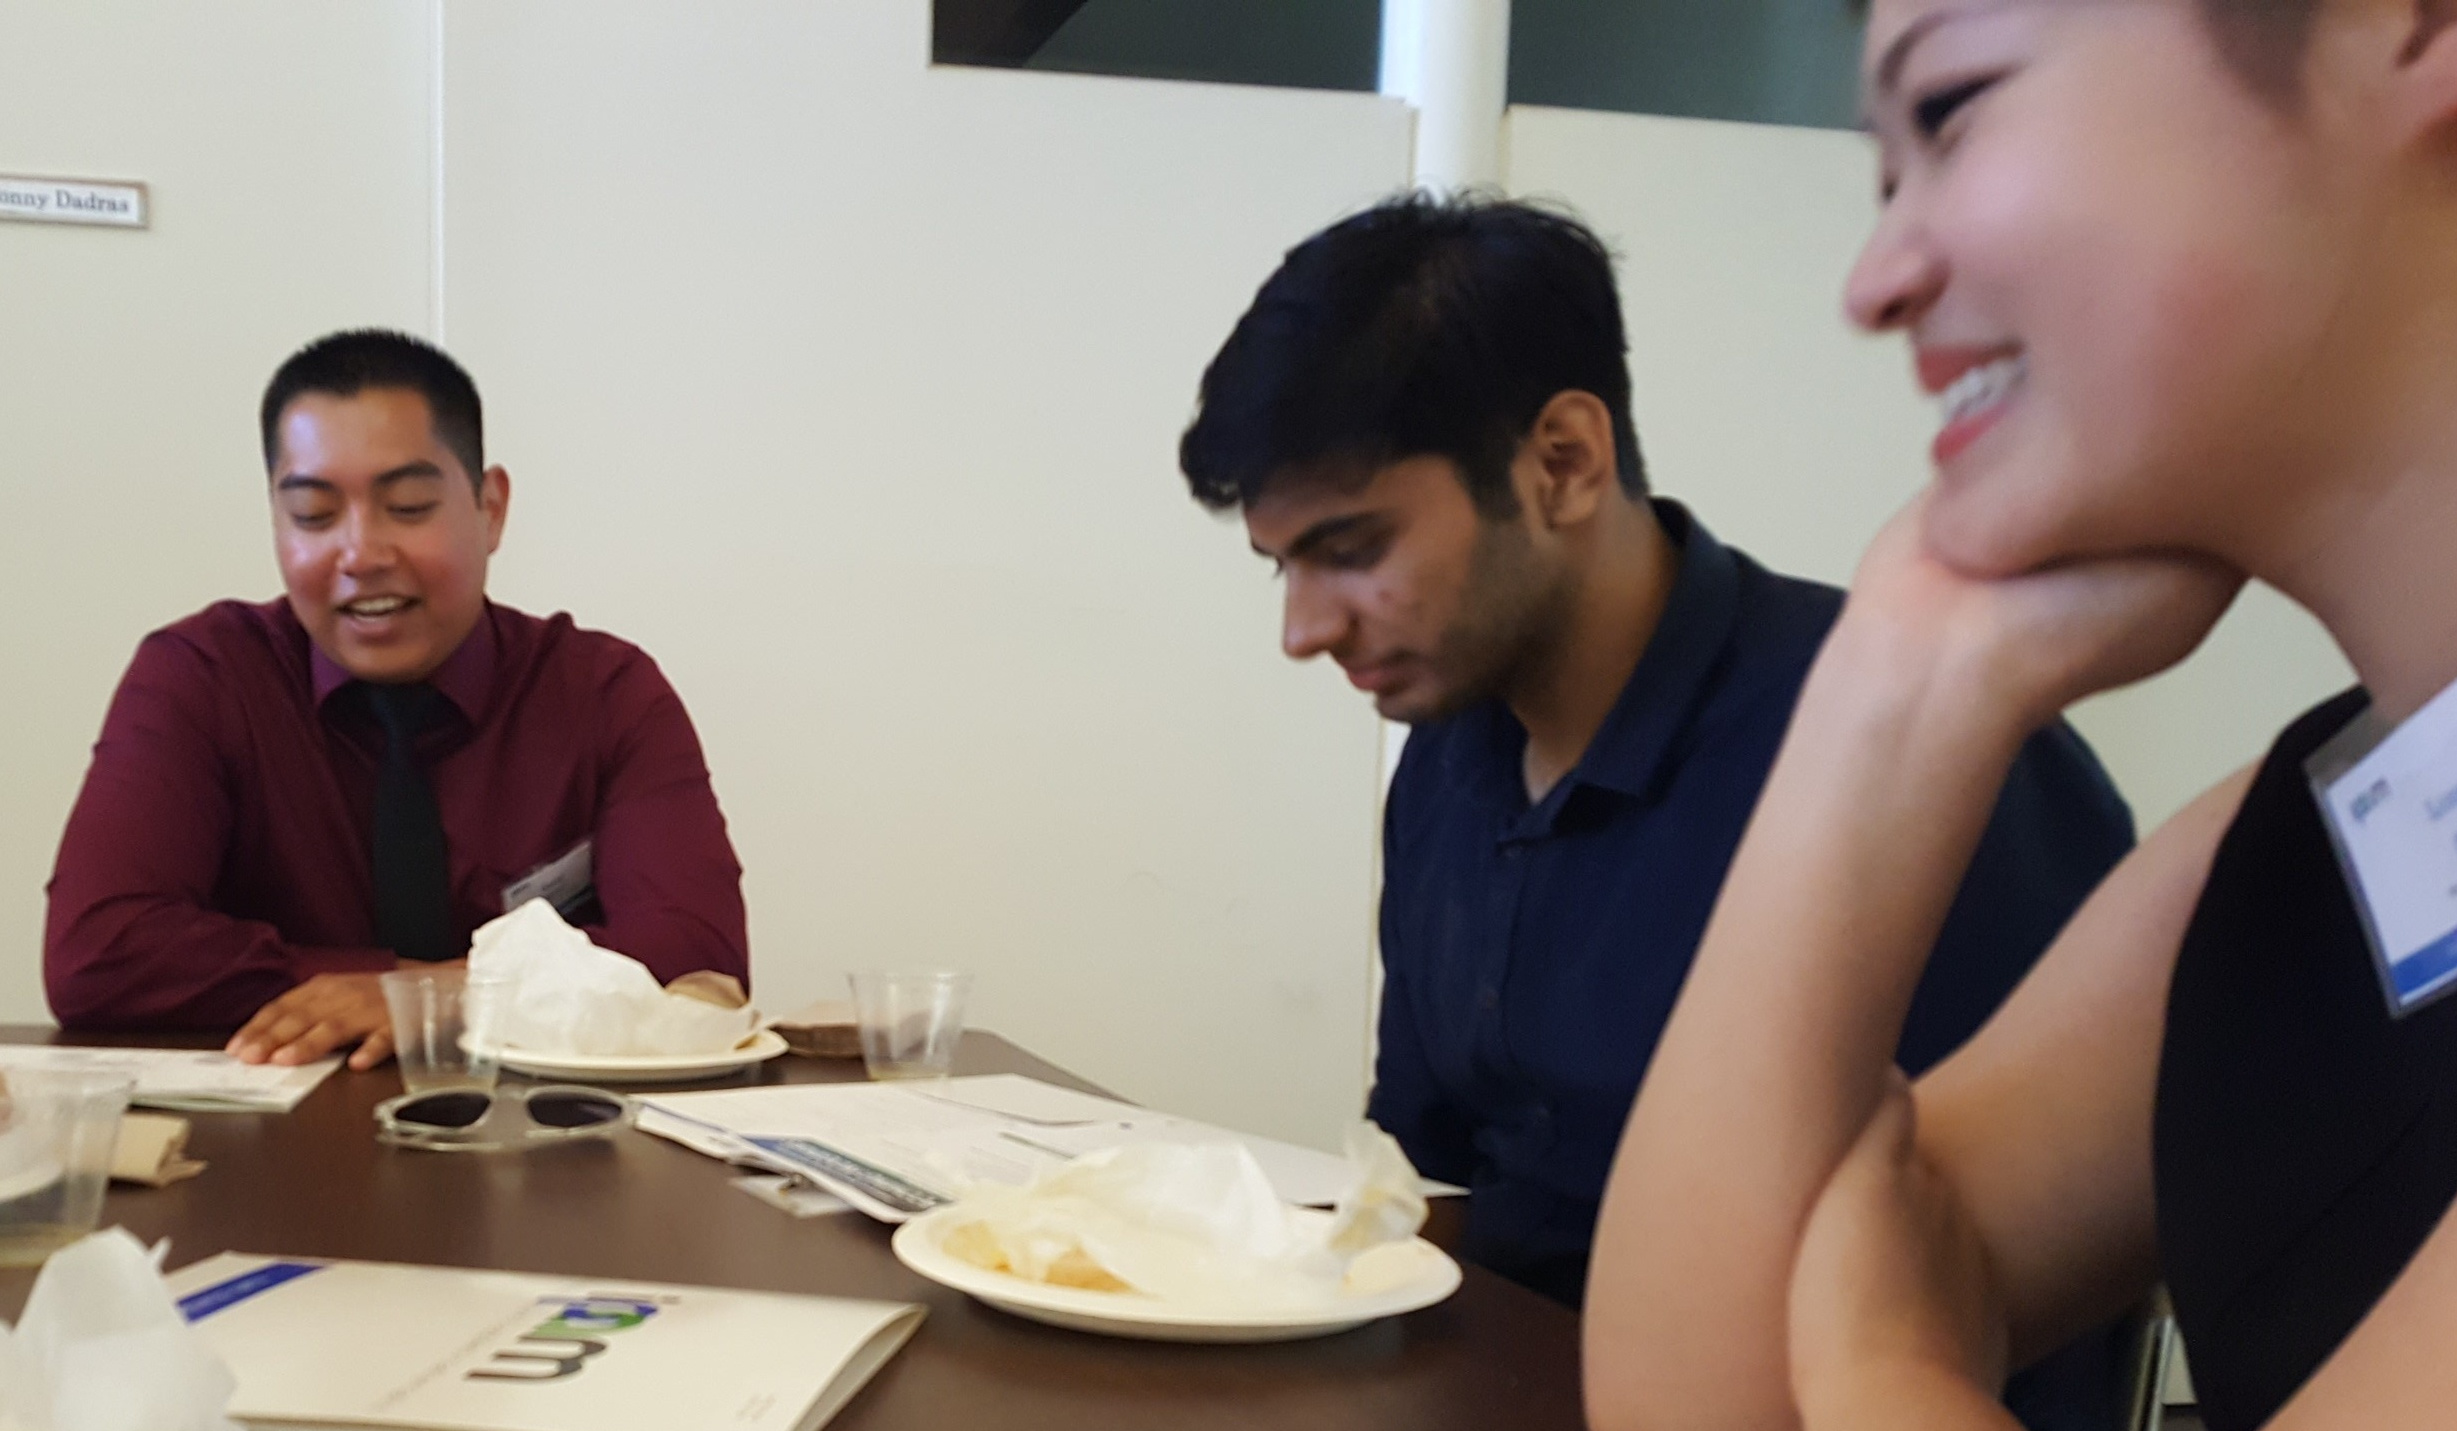
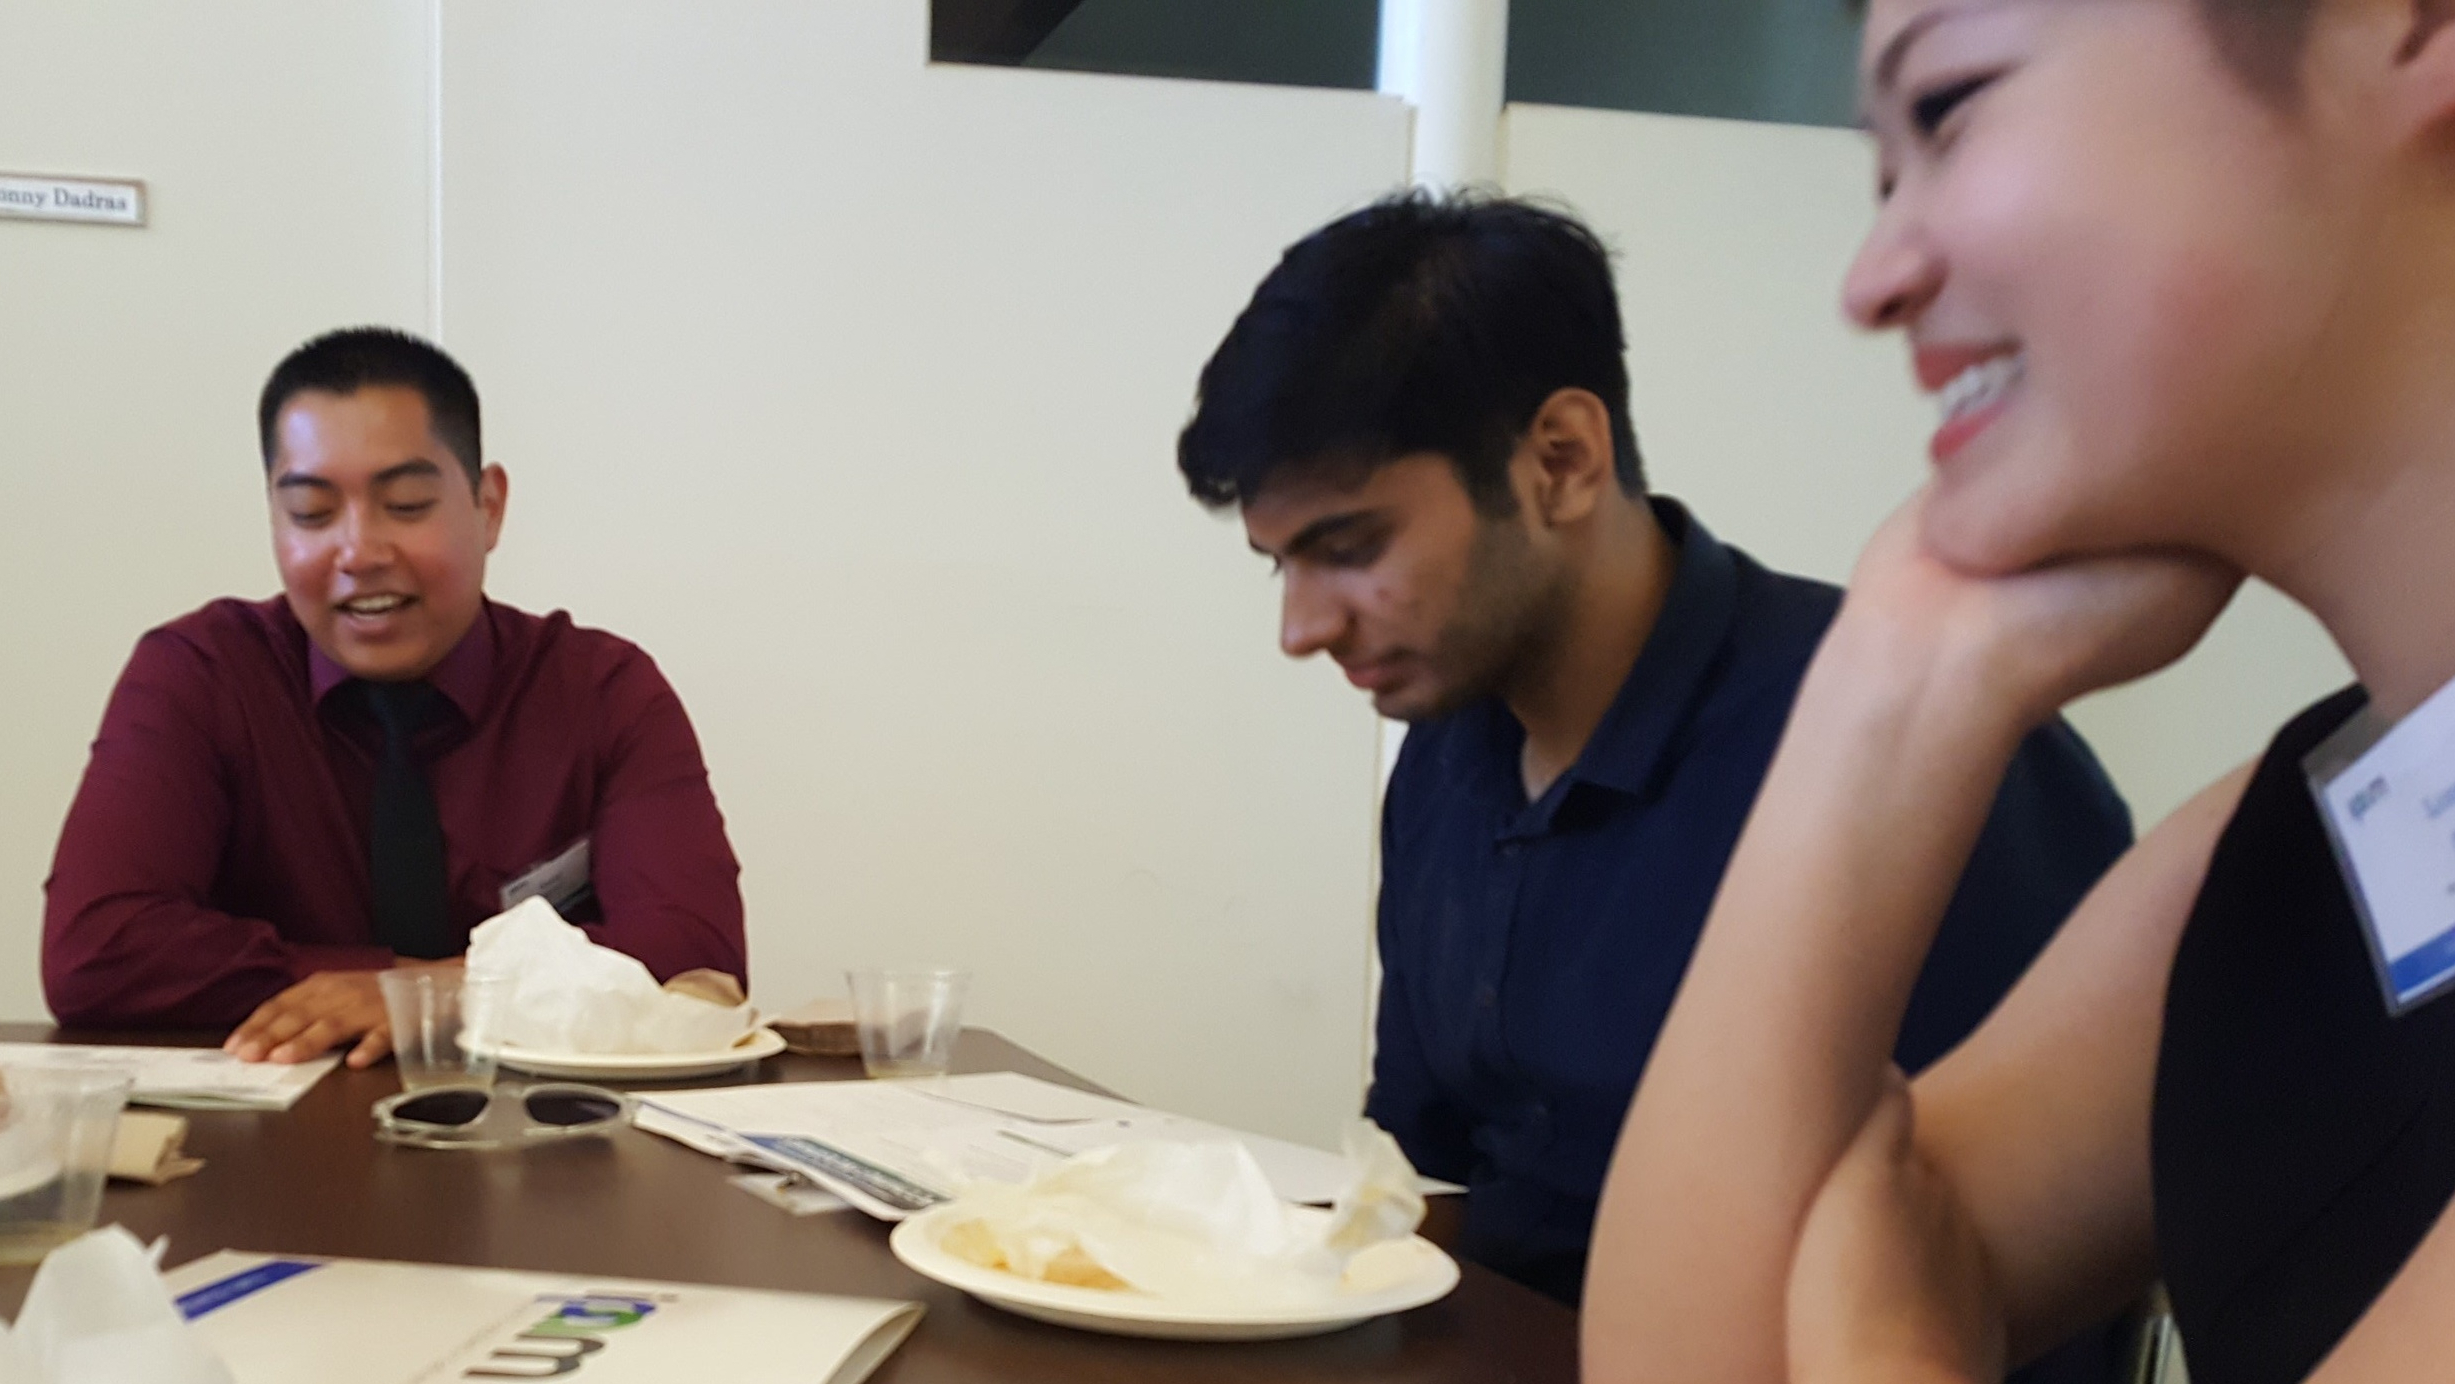
I give up

diff --git a/posts/WelcomeToLA.html b/posts/WelcomeToLA.html
@@ -25,10 +25,10 @@
     <center><img src="../images/RIPSOffice.jpg" alt="My office at IPAM" style="height:25em; max-width:80%; clear:both;" /></center>
 
     <p>Next up is our Project Manager, <a href="https://www.linkedin.com/in/liang-melody-shi-83077a115/">Liang (Melody) Shi</a>! An extremely-personable master of data science, I will not be suprised to see her as a CEO of an incredibly successful company or astonishing the world with her own innovative work in a few short years. Her intelligence, bubbly personality, and leadership qualities lead to the team unanimously agreeing that should take on the role of Project Manager at the beginning of day two.</p>
-    
+
     <div style="clear:both">
-      <img src="../images/WelcomeToLA-3.jpg" alt="IPAM Building at UCLA" style="width: 49%; padding: .5em .5em .5em .5em; float:left; display:block"/></th>
-      <img src="../images/WelcomeToLA-4.jpg" alt="IPAM Building at UCLA" style="width: 51%; padding: .5em .5em .5em .5em; float:right; display:block"/></th>
+      <img src="../images/WelcomeToLA-3.jpg" alt="IPAM Building at UCLA" style="width: 50%; padding: .5em .5em .5em .5em; float:left; display:block"/></th>
+      <img src="../images/WelcomeToLA-4.jpg" alt="IPAM Building at UCLA" style="width: 50%; padding: .5em .5em .5em .5em; float:right; display:block"/></th>
     </div>
 
     <p>Last, but certainly not least is my good friend David Angeles. I cannot overstate how caring and extraordinary this man is. On top of that, he is coming into a project focused in Machine Learning with a Pure Mathematics background, little experience with programming and the web (HTML, HTTP requests/responses, etc.) and being asked (among other things) to write a web crawler. Without even batting an eye, David jumped straight in, soaking everything up and asking intelligent and insightful questions, inquiring beyond what he needed to know for the project, and providing new and interesting prospectives that none of the rest of us could have dreamed of. Although intelligence is an elusive concept to define, a common thread in attempts is an ability to adapt and learn. David has not only blown the rest of the team away in his drive and ability to learn, but also his capacity to hold his own after a couple days on a team where the rest of the members have lots of experience in computer science.</p>
